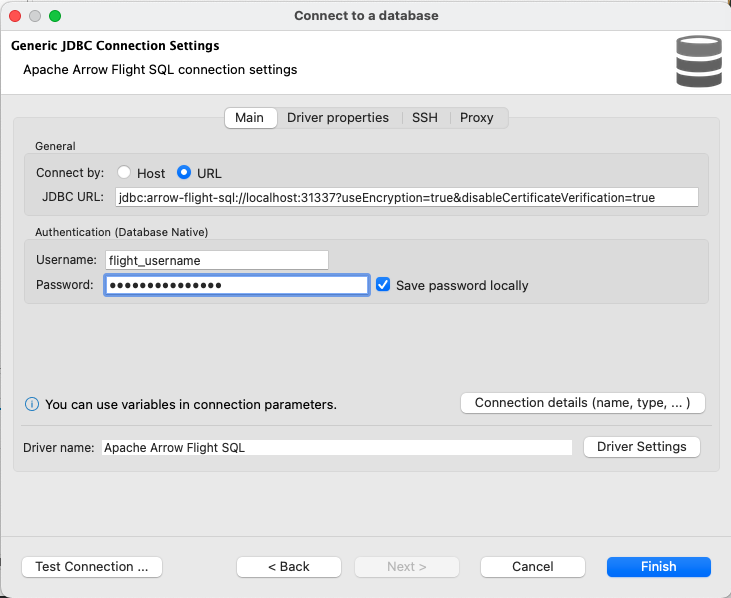
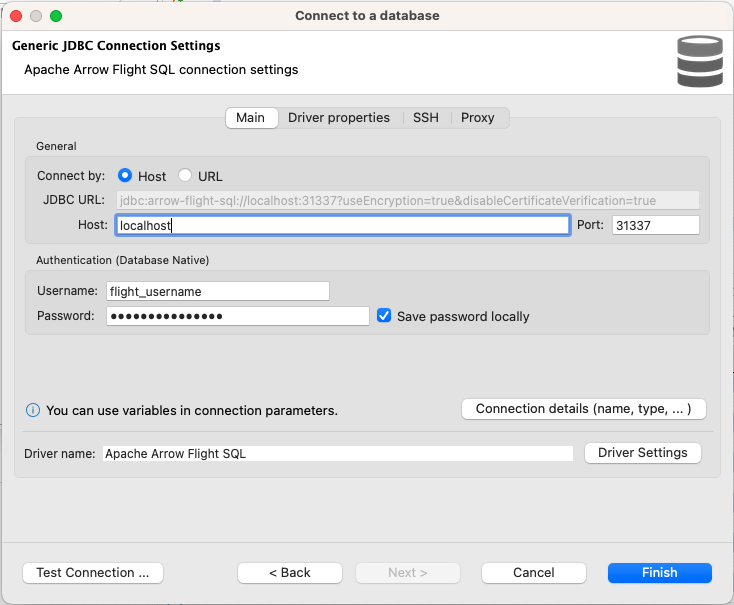
Updated per URI best practices

diff --git a/README.md b/README.md
@@ -37,7 +37,7 @@
 8. Enter the driver settings:   
    1. Click the "Settings" tab   
    1. In the "Driver Name" field - enter: ```Apache Arrow Flight SQL```   
-   1. In the "URL Template" field - enter: ```jdbc:arrow-flight-sql://localhost:31337?useEncryption=true&disableCertificateVerification=true```   
+   1. In the "URL Template" field - enter: ```jdbc:arrow-flight-sql://{host}:{port}?useEncryption=true&disableCertificateVerification=true```   
    1. In the "Driver Type" drop-down box - choose: "SQLite"   
    1. Your driver manager "Edit Driver" window should look like this:   
    ![Driver Manager completed](images/driver_manager_completed_window.png?raw=true "Driver Manager completed")   
@@ -52,7 +52,7 @@
    1. Choose the ```Apache Arrow Flight SQL``` driver - your window should look like this:   
    ![Connect to a database window](images/database_selection_window.png?raw=true "Connect to a database window")   
    1. Click the blue "Next >" button on the bottom of the window
-   1. On the next screen, the JDBC URL should be filled out already - just put in the "Username" and "Password" values for your running Flight SQL server.  Your window should look like this:   
+   1. On the next screen, the JDBC URL should be filled out already - just supply the Host (`localhost`), Port (`31337`), Username (`flight_username`), and Password values for your running Flight SQL server.  Your window should look like this:   
    ![Connect to a database window 2](images/database_settings_window.png?raw=true "Connect to a database window 2")
    1. Click the "Test Connection" button - your window should look like this:   
    ![Test Connection results](images/test_connection_button_results.png?raw=true "Test Connection results")   
